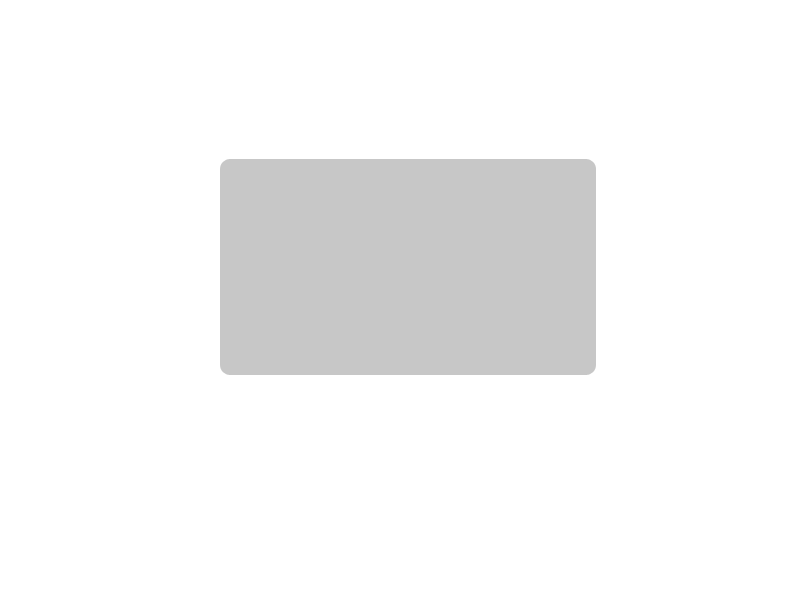
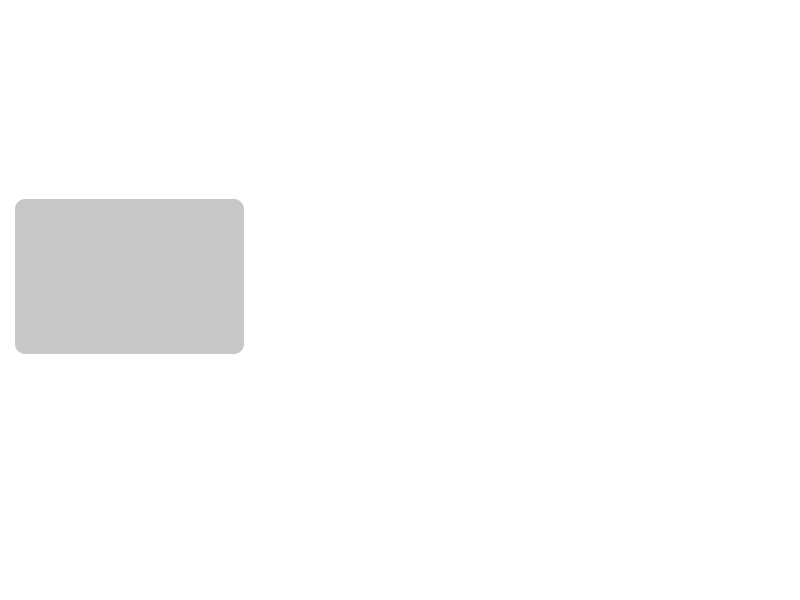
PanelFinPartida arreglao

Changed region(s): [[0.0, 0.24, 0.75, 0.63]]

diff --git a/Hollenhaus/Hollenhaus proyect VS/src/game/components/managers/MatchManager.cpp b/Hollenhaus/Hollenhaus proyect VS/src/game/components/managers/MatchManager.cpp
@@ -212,18 +212,27 @@ void MatchManager::InstantiatePanelFinPartida(int winner)
 	panel->setLayer(1000);
 	panel->addComponent<SpriteRenderer>("panelFinPartida");
 
-	ecs::entity_t victoryDefeatText = Instantiate(Vector2D(400, 200));
+	ecs::entity_t victoryDefeatText = Instantiate(Vector2D(128, 240));
 	victoryDefeatText->setLayer(1002);
 	auto text = victoryDefeatText->addComponent<TextComponent>("", "8bit_size_32", SDL_Color({ 0, 0, 0 ,0 }), 200, Text::BoxPivotPoint::CenterCenter, Text::TextAlignment::Center);
 
-	if (winner == 1) text->setTxt("EMPATE");
-	if (winner == 2) text->setTxt("VICTORIA");
-	if (winner == 3) text->setTxt("DERROTA");
+	if (winner == 1) {
+		text->setTxt("EMPATE");
+		text->setColor(SDL_Color({ 0, 0, 255 ,0 }));
+	}
+	if (winner == 2) {
+		text->setTxt("VICTORIA");
+		text->setColor(SDL_Color({ 255, 50, 50 ,0 }));
+	}
+	if (winner == 3) {
+		text->setTxt("DERROTA");
+		text->setColor(SDL_Color({ 255, 50, 50 ,0 }));
+	}
 	
 
-	ecs::entity_t continuarButton = Instantiate(Vector2D(400, 300));
+	ecs::entity_t continuarButton = Instantiate(Vector2D(128, 320));
 	continuarButton->setLayer(1001);
-	continuarButton->addComponent<TextComponent>("CONTINUAR", "8bit_size_32", SDL_Color({ 0, 0, 0 ,0 }), 200, Text::BoxPivotPoint::CenterCenter, Text::TextAlignment::Center);
+	continuarButton->addComponent<TextComponent>("CONTINUAR", "8bit_size_16", SDL_Color({ 0, 0, 0 ,0 }), 200, Text::BoxPivotPoint::CenterCenter, Text::TextAlignment::Center);
 	continuarButton->addComponent<BoxCollider>();
 	continuarButton->getComponent<BoxCollider>()->setSize(Vector2D(200, 40));
 	continuarButton->getComponent<BoxCollider>()->setPosOffset(Vector2D(-100, -20));
